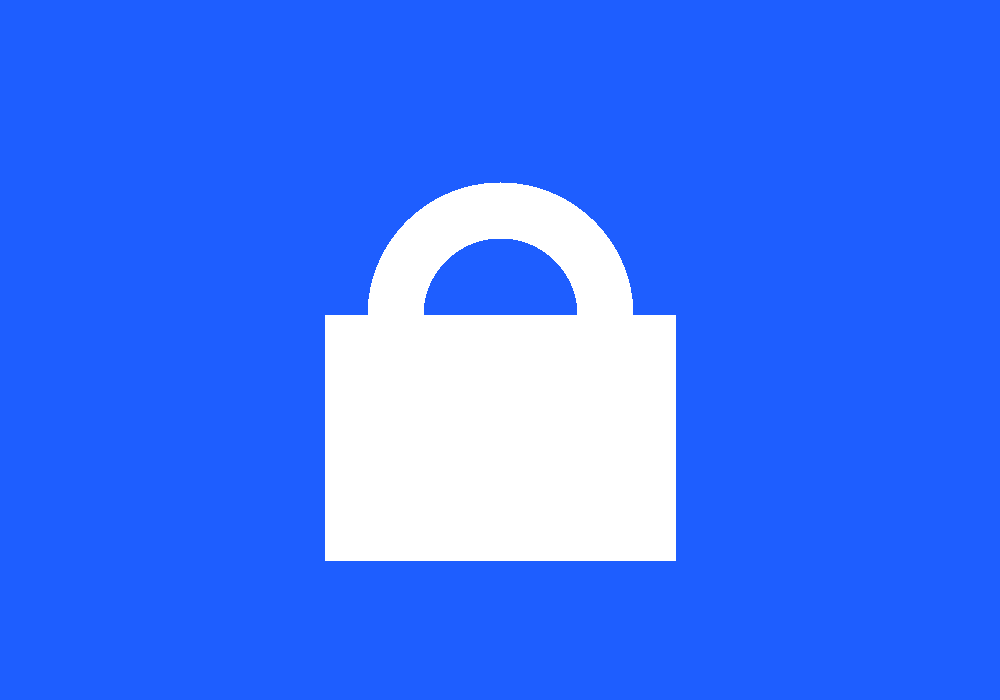
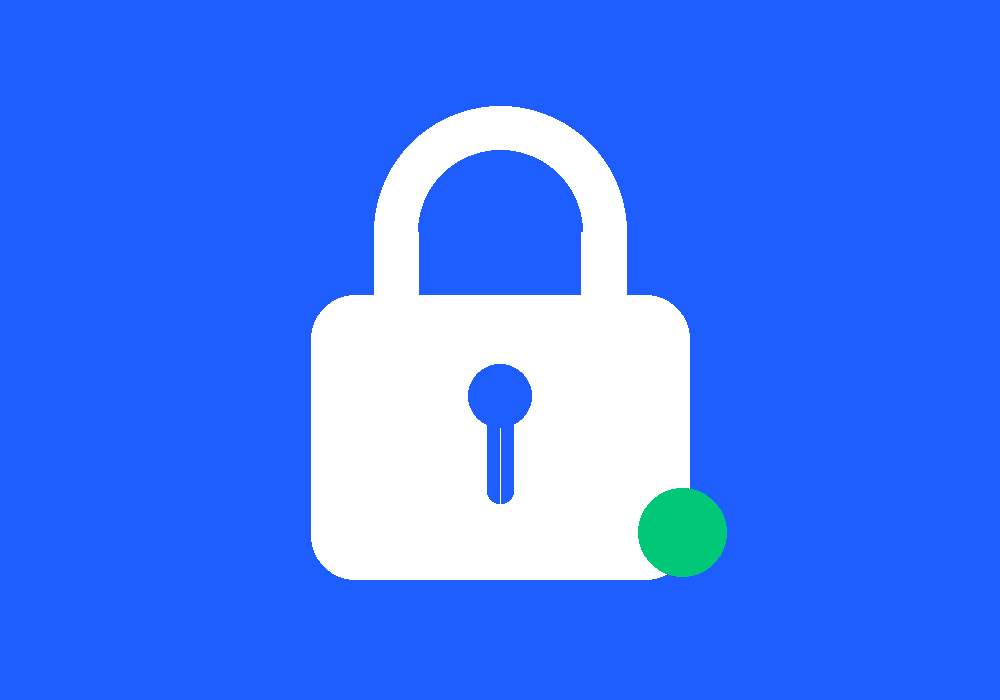
MIT license, store description, repo links and images for the test release
- LICENSE (MIT)
- README.txt / README.da.txt explain the three prerequisites in detail:
  gateway with Remote Unlock, approved TTLock developer application
  (client ID/secret), and the callback URL from the settings page
- homepage/source/support/bugs point at the GitHub repository
- changelog for 0.1.0, app and lock images redrawn

Changed region(s): [[0.31, 0.42, 0.744, 0.84], [0.372, 0.15, 0.651, 0.45], [0.465, 0.51, 0.558, 0.72]]

diff --git a/README.md b/README.md
@@ -4,7 +4,7 @@ A [Homey](https://homey.app) (SDK v3) app for [TTLock](https://www.ttlock.com) s
 
 A local Bluetooth bridge (an ESP32 at the door, no cloud at runtime) is in progress; see [PLAN-4b.md](PLAN-4b.md).
 
-> Built for personal use and tested against one lock (SN667, firmware 6.7.x) and one G2 gateway. It is not in the Homey App Store. Install it with the Homey CLI as described below.
+> Built for personal use and tested against one lock (SN667, firmware 6.7.x) and one G2 gateway. It is published to the Homey App Store **test channel** only: install it from <https://homey.app/a/dk.sepp.ttlock/test/>, or with the Homey CLI as described below.
 
 ## Features
 
@@ -108,6 +108,10 @@ TTLock gateways have no local API (a full port scan shows nothing open), but the
 - [briis/ttlock-homey](https://github.com/briis/ttlock-homey) for the OAuth client pattern and the record-type map.
 - [jbergler/hass-ttlock](https://github.com/jbergler/hass-ttlock) for the cloud API reference and webhook handling.
 - [bazuchan/esphome-ttlock](https://github.com/bazuchan/esphome-ttlock), [roquerodrigo/ttlock-ble](https://github.com/roquerodrigo/ttlock-ble) and [n8henrie/ttlock-rs](https://github.com/n8henrie/ttlock-rs) for the BLE protocol work.
+
+## License
+
+[MIT](LICENSE).
 
 ## Disclaimer
 
